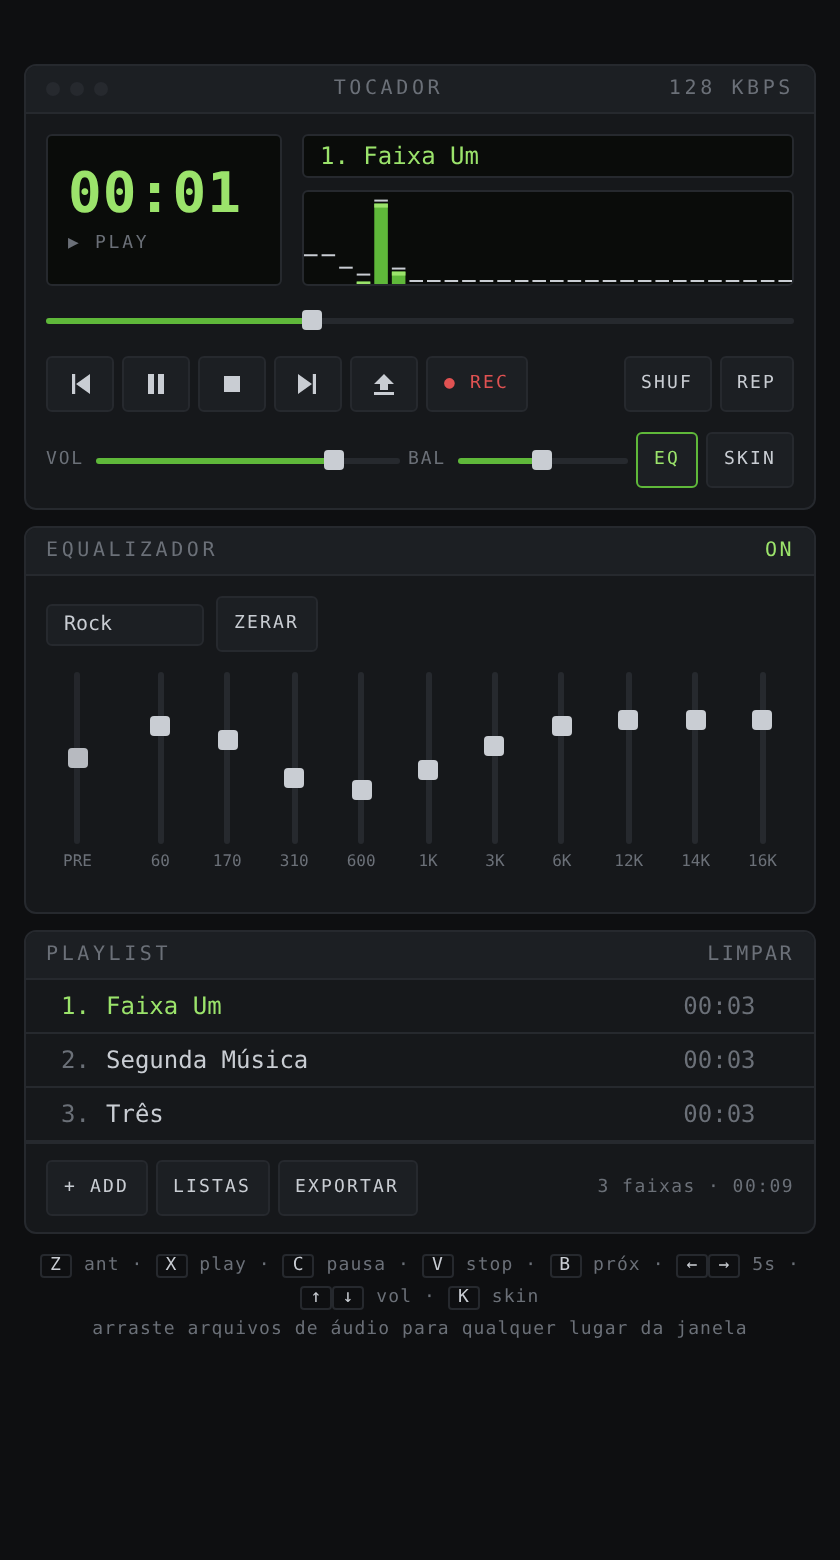
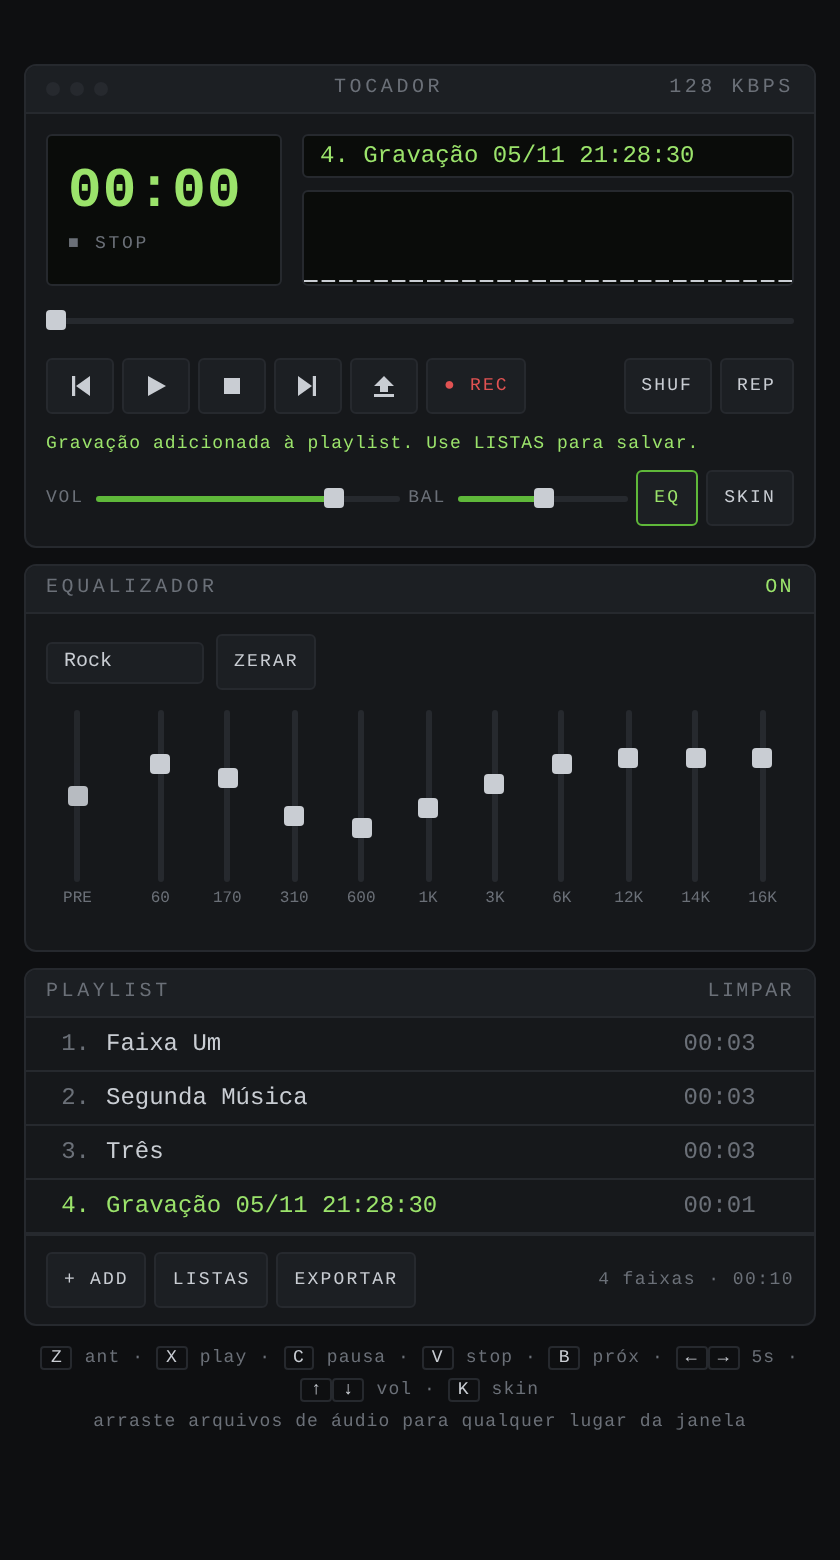
Zero contato com terceiros: fonte do sistema no lugar do Google Fonts
Remove a única requisição externa e restringe a CSP.

Claude-Session: https://claude.ai/code/session_01BGNd8gQUBqXi2N4xpdik4Y

diff --git a/index.html b/index.html
@@ -3,11 +3,9 @@
 <head>
 <meta charset="utf-8">
 <meta name="viewport" content="width=device-width, initial-scale=1">
-<meta http-equiv="Content-Security-Policy" content="default-src 'none'; script-src 'unsafe-inline'; style-src 'unsafe-inline' https://fonts.googleapis.com; font-src https://fonts.gstatic.com; media-src blob:; img-src data: blob:; connect-src 'none'; form-action 'none'; base-uri 'none'; object-src 'none'">
+<meta http-equiv="Content-Security-Policy" content="default-src 'none'; script-src 'unsafe-inline'; style-src 'unsafe-inline'; media-src blob:; img-src data: blob:; connect-src 'none'; form-action 'none'; base-uri 'none'; object-src 'none'">
 <meta name="referrer" content="no-referrer">
 <title>Tocador Minimalista · com gravação</title>
-<link rel="preconnect" href="https://fonts.googleapis.com">
-<link href="https://fonts.googleapis.com/css2?family=JetBrains+Mono:wght@400;600&display=swap" rel="stylesheet">
 <style>
   :root{
     --bg:#0e0f11; --panel:#16181b; --panel2:#1c1f23; --line:#26292e;
@@ -30,7 +28,7 @@
   .sk span{font-size:9px;letter-spacing:.12em;text-transform:uppercase;color:var(--dim)}
   .sk.on span{color:var(--accent)}
   *{box-sizing:border-box;margin:0;padding:0}
-  html,body{background:var(--bg);color:var(--text);font-family:'JetBrains Mono',ui-monospace,monospace;font-size:12px}
+  html,body{background:var(--bg);color:var(--text);font-family:ui-monospace,'SF Mono','Cascadia Mono','Segoe UI Mono',Menlo,Consolas,'Liberation Mono','DejaVu Sans Mono',monospace;font-size:12px}
   body{min-height:100vh;display:flex;justify-content:center;align-items:flex-start;padding:32px 12px}
   .wrap{width:100%;max-width:400px;display:flex;flex-direction:column;gap:8px}
   .win{background:var(--panel);border:1px solid var(--line);border-radius:6px;overflow:hidden}

diff --git a/SECURITY.md b/SECURITY.md
@@ -9,7 +9,7 @@ O Tocador Minimalista roda inteiramente no navegador. Não há servidor, login n
 | Área | Proteção |
 |---|---|
 | Código de terceiros | JSZip 3.10.1 embutido no arquivo (sem CDN); versão sem CVEs conhecidas abertas |
-| Conexões externas | CSP com `connect-src 'none'`, `default-src 'none'`; apenas Google Fonts liberado |
+| Conexões externas | Nenhum recurso de terceiros (fonte do sistema, JSZip embutido); CSP com `default-src 'none'` e `connect-src 'none'` |
 | Injeção de HTML (XSS) | Nomes de faixas e playlists sempre inseridos como texto (`textContent`) |
 | ZIP malicioso | Limites de 1.000 entradas, 512 MB por arquivo, 2 GB no total e 1 MB para a lista M3U; nada é gravado em disco, então path traversal não se aplica |
 | M3U exportado | Caracteres de controle e quebras de linha removidos dos nomes |
@@ -22,7 +22,6 @@ O Tocador Minimalista roda inteiramente no navegador. Não há servidor, login n
 - **Dados sem criptografia**: playlists e gravações ficam no IndexedDB do navegador. Quem tiver acesso ao seu perfil do navegador consegue lê-los.
 - **Arquivo aberto do disco (`file://`)**: o navegador pode compartilhar o armazenamento entre páginas locais. O tocador exibe um aviso nesse caso. Prefira usar pela versão publicada em `https://`.
 - **GitHub Pages** não permite cabeçalhos HTTP personalizados, então `frame-ancestors` (proteção contra clickjacking) não se aplica lá.
-- **Google Fonts** recebe o IP de quem abre a página.
 
 ## Reportar uma vulnerabilidade
 

diff --git a/README.md b/README.md
@@ -48,9 +48,9 @@ O arquivo `_headers` não tem efeito no GitHub Pages; ele aplica cabeçalhos de 
 
 ## Privacidade e segurança
 
-- Nenhum dado é enviado para servidores: a página bloqueia conexões externas por política de segurança (CSP)
+- **Zero contato com terceiros**: a página não carrega nada de fora (nem fontes, nem bibliotecas) e bloqueia qualquer conexão externa por política de segurança (CSP)
+- Usa a fonte monoespaçada do próprio sistema
 - As playlists e gravações ficam no armazenamento local do navegador (IndexedDB), sem criptografia
-- A única requisição externa é a fonte JetBrains Mono, do Google Fonts
 
 Detalhes e como reportar problemas: [SECURITY.md](SECURITY.md).
 
